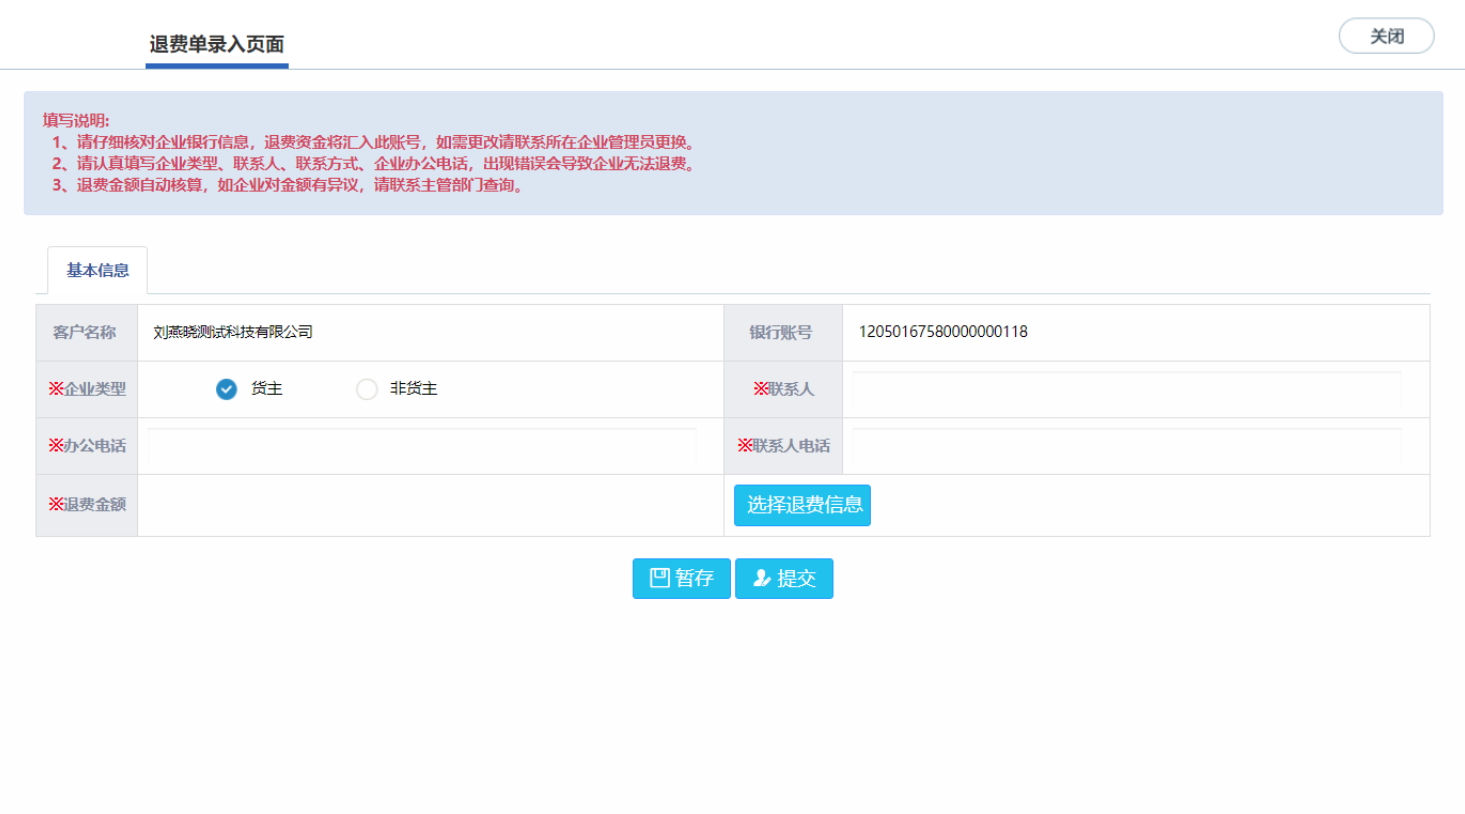
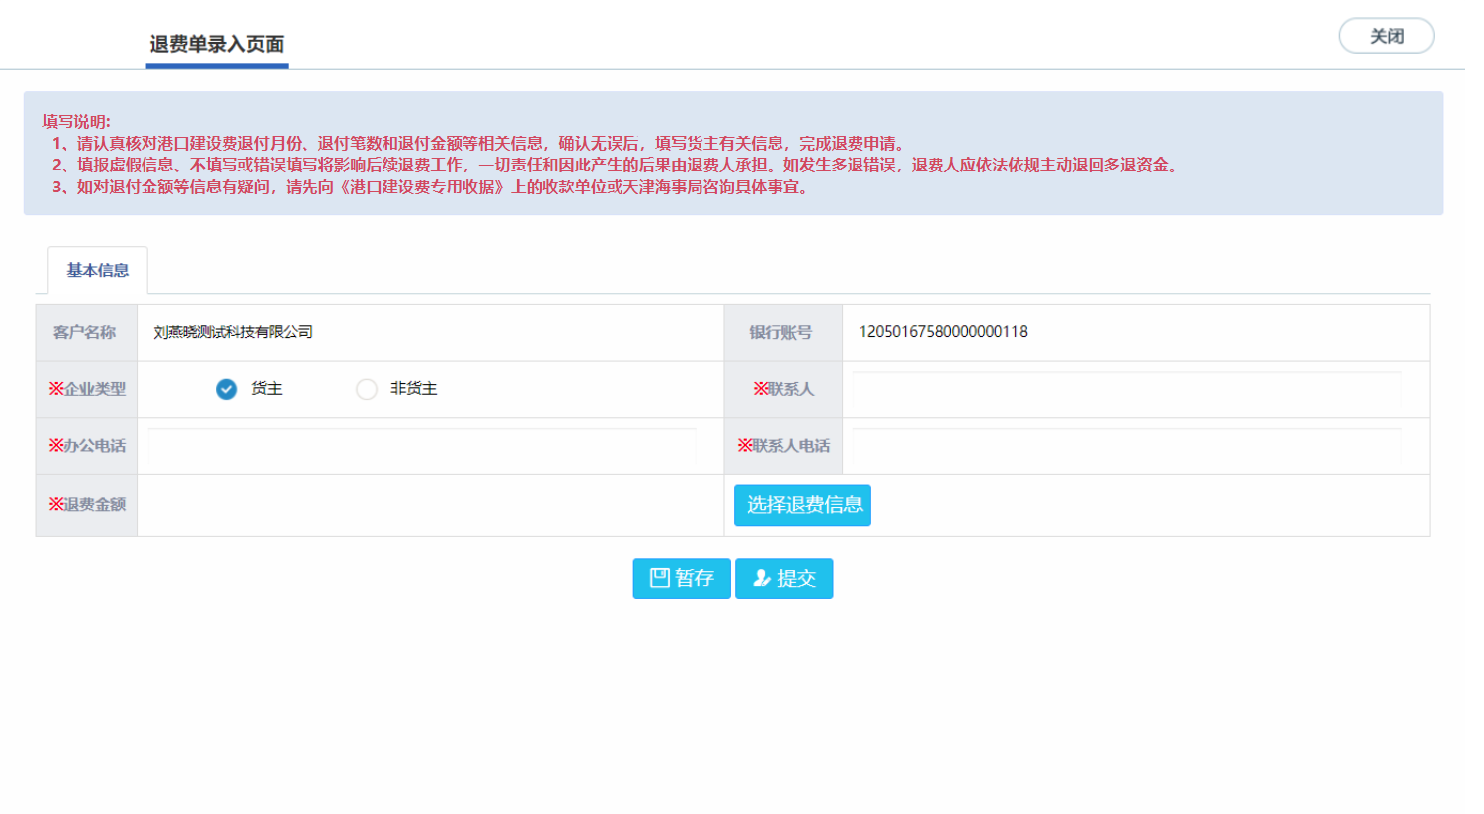
修改退费单，按描述修改退费单

diff --git a/src/main/resources/static/mnscList/tfdsqlr/stepList.html b/src/main/resources/static/mnscList/tfdsqlr/stepList.html
@@ -107,8 +107,8 @@ $(function () {
         callBack: function (obj) {
         }
       }, {
-        X: 368,
-        Y: 198,
+        X: 362,
+        Y: 200,
         distance: 10,
         direction: 'bottom',
         noTriangle: true,
@@ -118,7 +118,7 @@ $(function () {
         backgroundColor: 'transparent', //透明颜色
         color: '#fff',
         radius: 5,
-        area: [220, 40],
+        area: [228, 32],
         nextBtn: {
           content: '',
           backgroundColor: 'transparent'
@@ -162,8 +162,8 @@ $(function () {
           document.getElementById("tipsMain").contentWindow.setpic("./images/tfd-001002.png");
         }
       }, {
-        X: 580,
-        Y: 140,
+        X: 582,
+        Y: 80,
         distance: 10,
         direction: 'bottom',
         noTriangle: true,
@@ -173,7 +173,7 @@ $(function () {
         backgroundColor: 'transparent', //透明颜色
         color: '#fff',
         radius: 5,
-        area: [110, 40],
+        area: [110, 38],
         nextBtn: {
           content: '',
           backgroundColor: 'transparent',
@@ -246,8 +246,8 @@ $(function () {
           document.getElementById("tipsMain").contentWindow.setpic("./images/tfd-001000.png");
         }
       }, {
-        X: 441,
-        Y: 315,
+        X: 431,
+        Y: 317,
         distance: 10,
         direction: 'bottom',
         noTriangle: true,
@@ -257,7 +257,7 @@ $(function () {
         backgroundColor: 'transparent', //透明颜色
         color: '#fff',
         radius: 5,
-        area: [110, 40],
+        area: [104, 30],
         nextBtn: {
           content: '',
           backgroundColor: 'transparent'
@@ -308,8 +308,8 @@ $(function () {
     }, {//第三页
       srcUrl: './stepTips3.html',
       steps: [{
-        X: 630,
-        Y: 260,
+        X: 620,
+        Y: 270,
         distance: 10,
         direction: 'right',
         content: '<div class="intro-indent">在“选择-退费信息”页面，平台根据企业缴纳港建费的情况按月智能汇总出企业所需要处理的退费信息。<br><br>'
@@ -349,10 +349,10 @@ $(function () {
         }
       }, {
         X: 330,
-        Y: 460,
+        Y: 410,
         distance: 10,
         direction: 'right',
-        content: '<div class="intro-indent">注意：这里共有4笔交易，总交易笔数在“非货主”企业录入货主信息时要用到。</div>',
+        content: '<div class="intro-indent">注意：这里共有3笔交易，总交易笔数在“非货主”企业录入货主信息时要用到。</div>',
         padding: 10,
         backgroundColor: 'rgba(0,0,0,0.6)',
         color: '#fff',
@@ -366,8 +366,8 @@ $(function () {
           document.getElementById("tipsMain").contentWindow.setpic("./images/tfd-003001.png");
         }
       }, {
-        X: 330,
-        Y: 260,
+        X: 280,
+        Y: 244,
         distance: 10,
         direction: 'right',
         content: '<div class="intro-indent">若是企业为货主在基本信息页就可以提交单据。</div><br><div class="intro-indent">若是非货主企业，请在企业类型中选择非货主。</div>',
@@ -383,8 +383,8 @@ $(function () {
         callBack: function (obj) {
         }
       }, {
-        X: 323,
-        Y: 212,
+        X: 265,
+        Y: 202,
         distance: 10,
         direction: 'bottom',
         noTriangle: true,
@@ -394,7 +394,7 @@ $(function () {
         backgroundColor: 'transparent', //透明颜色
         color: '#fff',
         radius: 5,
-        area: [80, 40],
+        area: [80, 32],
         nextBtn: {
           content: '',
           backgroundColor: 'transparent',
@@ -408,8 +408,8 @@ $(function () {
     }, {//第四页
       srcUrl: './stepTips4.html',
       steps: [{
-        X: 330,
-        Y: 260,
+        X: 280,
+        Y: 244,
         distance: 10,
         direction: 'right',
         content: '<div class="intro-indent">选择“非货主”后，企业必须录入真实的货主信息，系统才能受理。<br><br>页面中会出现“下一页”按钮和"货主信息"页签，'
@@ -426,8 +426,8 @@ $(function () {
         callBack: function (obj) {
         }
       }, {
-        X: 154,
-        Y: 226,
+        X: 147,
+        Y: 218,
         distance: 10,
         noTriangle: true,
         borderColor: 'red',
@@ -436,7 +436,7 @@ $(function () {
         backgroundColor: 'transparent', //透明颜色
         color: '#fff',
         radius: 5,
-        area: [80, 40],
+        area: [75, 38],
         nextBtn: {
           content: '',
           backgroundColor: 'transparent'
@@ -682,7 +682,7 @@ $(function () {
         distance: 10,
         direction: 'right',
         content: '<div class="intro-indent">已提交退费单中列出提交的退费单列表，可跟踪已提交的退费单的处理情况和付款情况。<br>'
-          +'单据状态：<span class="special">“已提交、未提交、退回、已审批”</span>；'
+          +'单据状态：<span class="special">“未提交、处理中、退回、完成申请”</span>；'
           +'退费标识：<span class="special">“未退费、已退费”</span>。<br><br>'
           +'退费单可根据录入时间范围进行查询，点击“重置”按钮，可以清空查询条件。<br><br></div>'
           +'点击表格中的<span class="special">“操作记录”</span>可查看该条数据的操作日志；<br>'
@@ -699,7 +699,7 @@ $(function () {
         callBack: function (obj) {
         }
       }, {
-        X: 290,
+        X: 280,
         Y: 208,
         distance: 10,
         direction: 'bottom',
@@ -737,7 +737,7 @@ $(function () {
           document.getElementById("tipsMain").contentWindow.setpic("./images/tfd-007003.png");
         }
       }, {
-        X: 414,
+        X: 394,
         Y: 208,
         distance: 10,
         direction: 'bottom',
